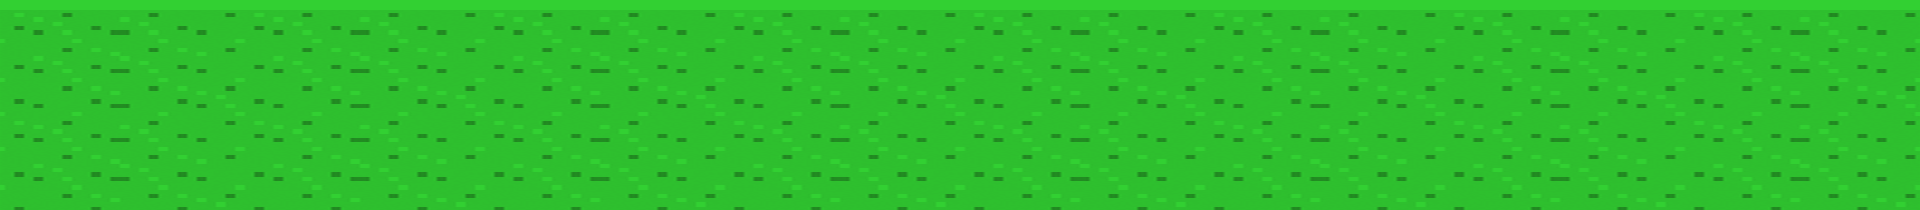
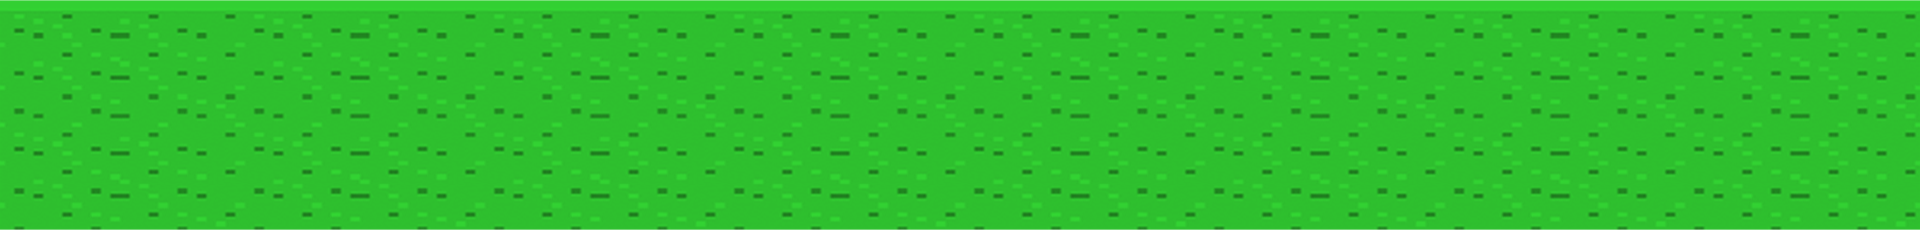
Fixed ground

Changed region(s): [[0.0, 0.9714, 1.0, 1.0], [0.0, 0.0, 1.0, 0.0286]]

diff --git a/sketch.js b/sketch.js
@@ -39,7 +39,7 @@ function setup() {
   dog.setCollider('circle', 0, 0, 20);
   dog.addAnimation('move', 'assets/jumping_dog1.png', 'assets/jumping_dog2.png', 'assets/jumping_dog3.png');
 
-  ground = createSprite(windowWidth, windowHeight - 100); //image 800x200
+  ground = createSprite(windowWidth, windowHeight + 100); //image 800x200
   ground.addImage(groundImg);
 
   rocks = new Group();
@@ -129,7 +129,7 @@ function gameStage1() {
     clouds[i].display();
     clouds[i].move();
   }
-  image(bgImg, 0, GROUND_Y - 170);
+  image(bgImg, 0, GROUND_Y - 160);
   camera.on();
 
   drawSprite(ground);
@@ -151,7 +151,7 @@ function newGame() {
   dog.position.y = height / 1.3;
   dog.velocity.y = 2;
   ground.position.x = windowWidth;
-  ground.position.y = windowHeight - 100;
+  ground.position.y = windowHeight - 110;
 }
 
 function keyPressed() {
